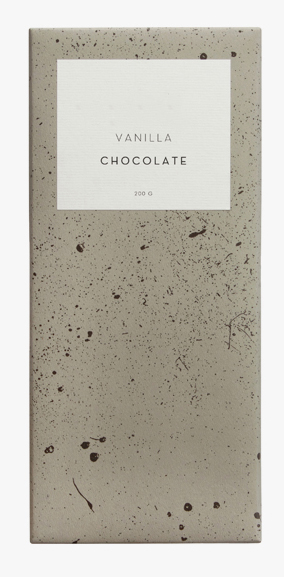
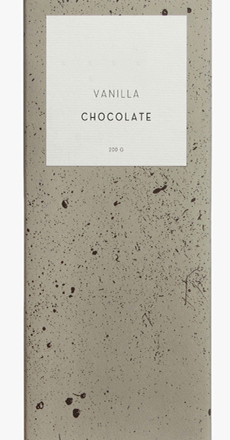
Images replaced
Few images in the site were replaced for images with constant dimensions

diff --git a/css/main.css b/css/main.css
@@ -275,8 +275,6 @@ hr {
   .p1 {
     display: inline-block;
     float: left;
-    min-height: 900px;
-    height: 600px;
     width: 50%;
     padding: 1.5rem;
   }
@@ -284,8 +282,6 @@ hr {
   .p2 {
     display: inline-block;
     float: left;
-    min-height: 900px;
-    height: 600px;
     width: 50%;
     padding: 1.5rem;
   }
@@ -293,8 +289,6 @@ hr {
   .p3 {
     display: inline-block;
     float: left;
-    min-height: 900px;
-    height: 600px;
     width: 50%;
     padding: 1.5rem;
   }
@@ -302,8 +296,6 @@ hr {
   .p4 {
     display: inline-block;
     float: left;
-    min-height: 900px;
-    height: 600px;
     width: 50%;
     padding: 1.5rem;
   }
@@ -345,44 +337,26 @@ hr {
 
   .p1 {
     float: left;
-    min-height: 550px;
     width: 25%;
-    height: 450px;
   }
 
   .p2 {
     float: left;
-    min-height: 550px;
     width: 25%;
-    height: 450px;
   }
 
   .p3 {
     float: left;
-    min-height: 550px;
     width: 25%;
-    height: 450px;
   }
 
   .p4 {
     float: left;
-    min-height: 550px;
     width: 25%;
-    height: 450px;
   }
 
 }
 
-@media only screen and (min-width: 67em) {
-
-  .p1,
-  .p2,
-  .p3,
-  .p4 {
-    height: 500px;
-  }
-
-}
 
 @media only screen and (min-width: 90em) {
 
@@ -446,13 +420,6 @@ hr {
 
   .products {
     margin: 2rem;
-  }
-
-  .p1,
-  .p2,
-  .p3,
-  .p4 {
-    height: 650px;
   }
 
   .blog1 {

diff --git a/index.html b/index.html
@@ -2,7 +2,7 @@
 <html lang="en-ca">
 <head>
   <meta charset="utf-8">
-  <title>coco’s chocolatiers</title>
+  <title>Coco’s Chocolatiers</title>
   <meta name="viewport" content="width=device-width,initial-scale=1">
   <link href="css/main.css" rel="stylesheet">
   <link href="https://fonts.googleapis.com/css?family=Zeyada" rel="stylesheet">
@@ -10,7 +10,7 @@
 <body>
   <header id="m">
     <img class="logo" src="images-site/logo.jpg" alt="logo">
-    <h1>Coco's Chocolatiers</h1>
+    <h1>coco's chocolatiers</h1>
     <a class="search" href="#"><img src="images-site/search-icon-b.svg" alt="search"></a>
     <a class="cart" href="#"><img src="images-site/cart-icon-b.svg" alt="cart"></a>
     <nav>
